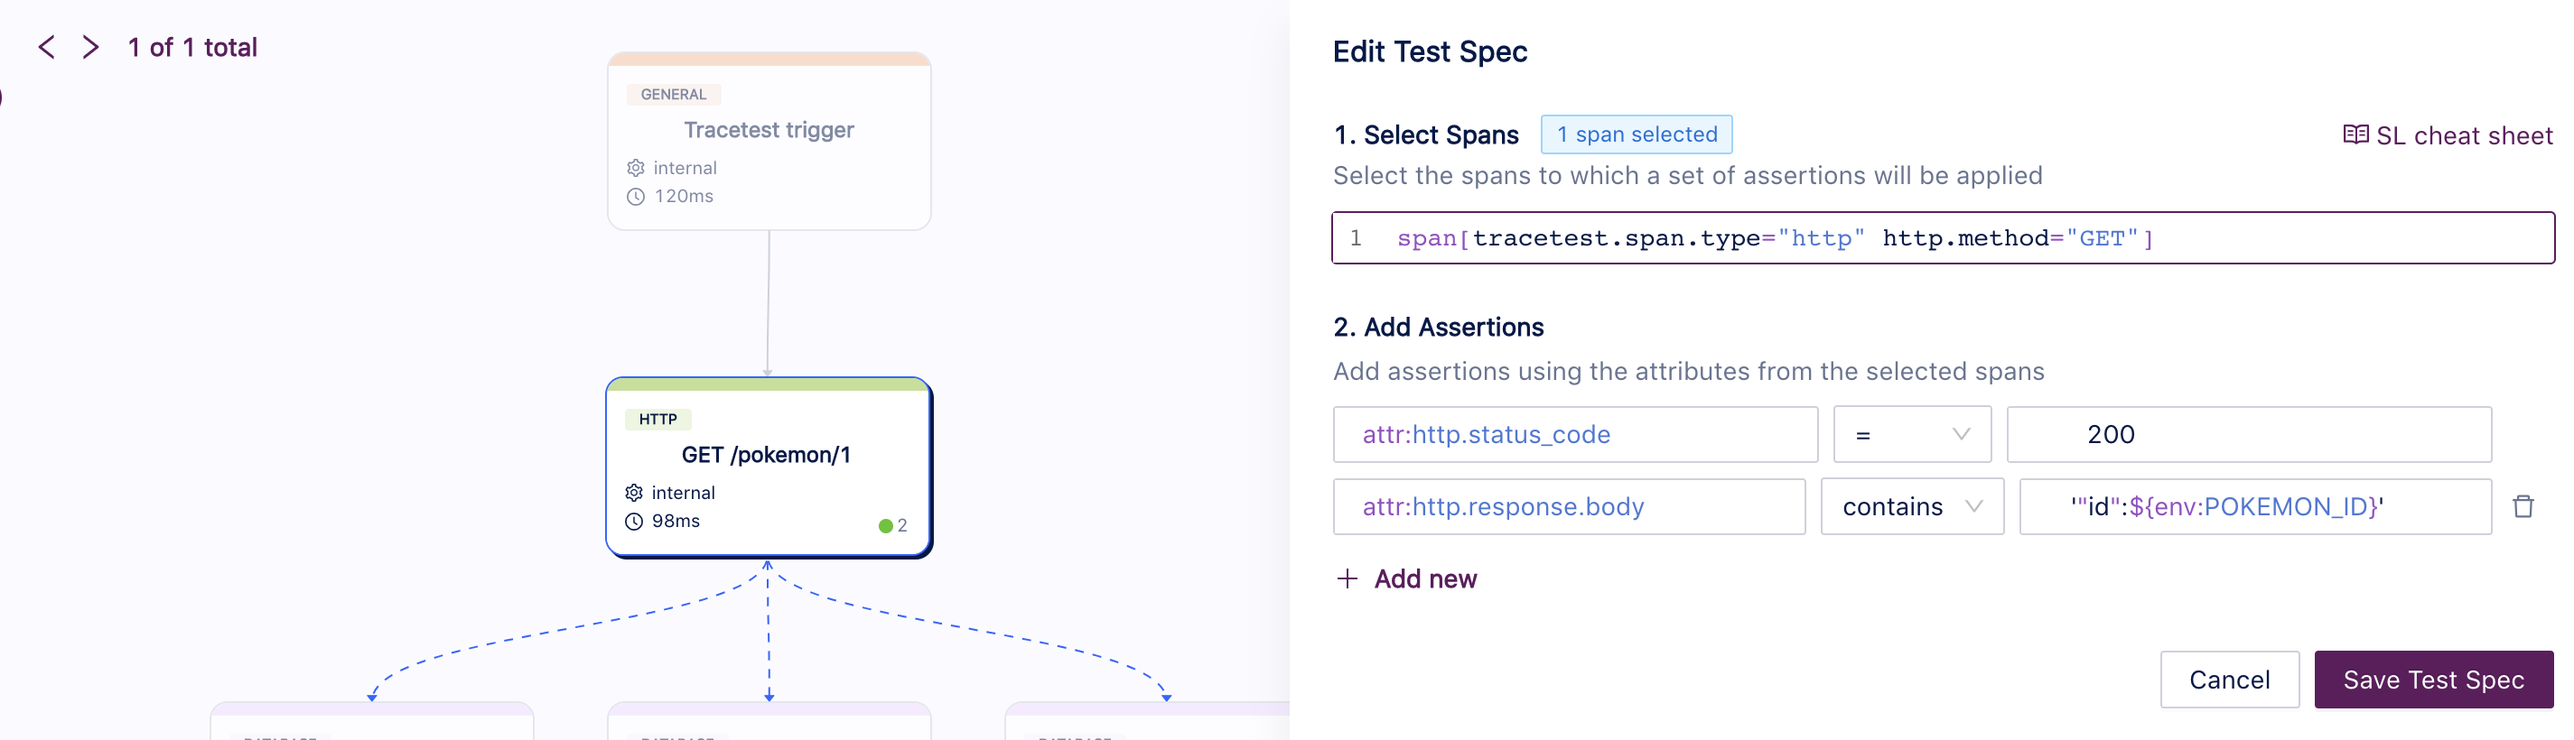
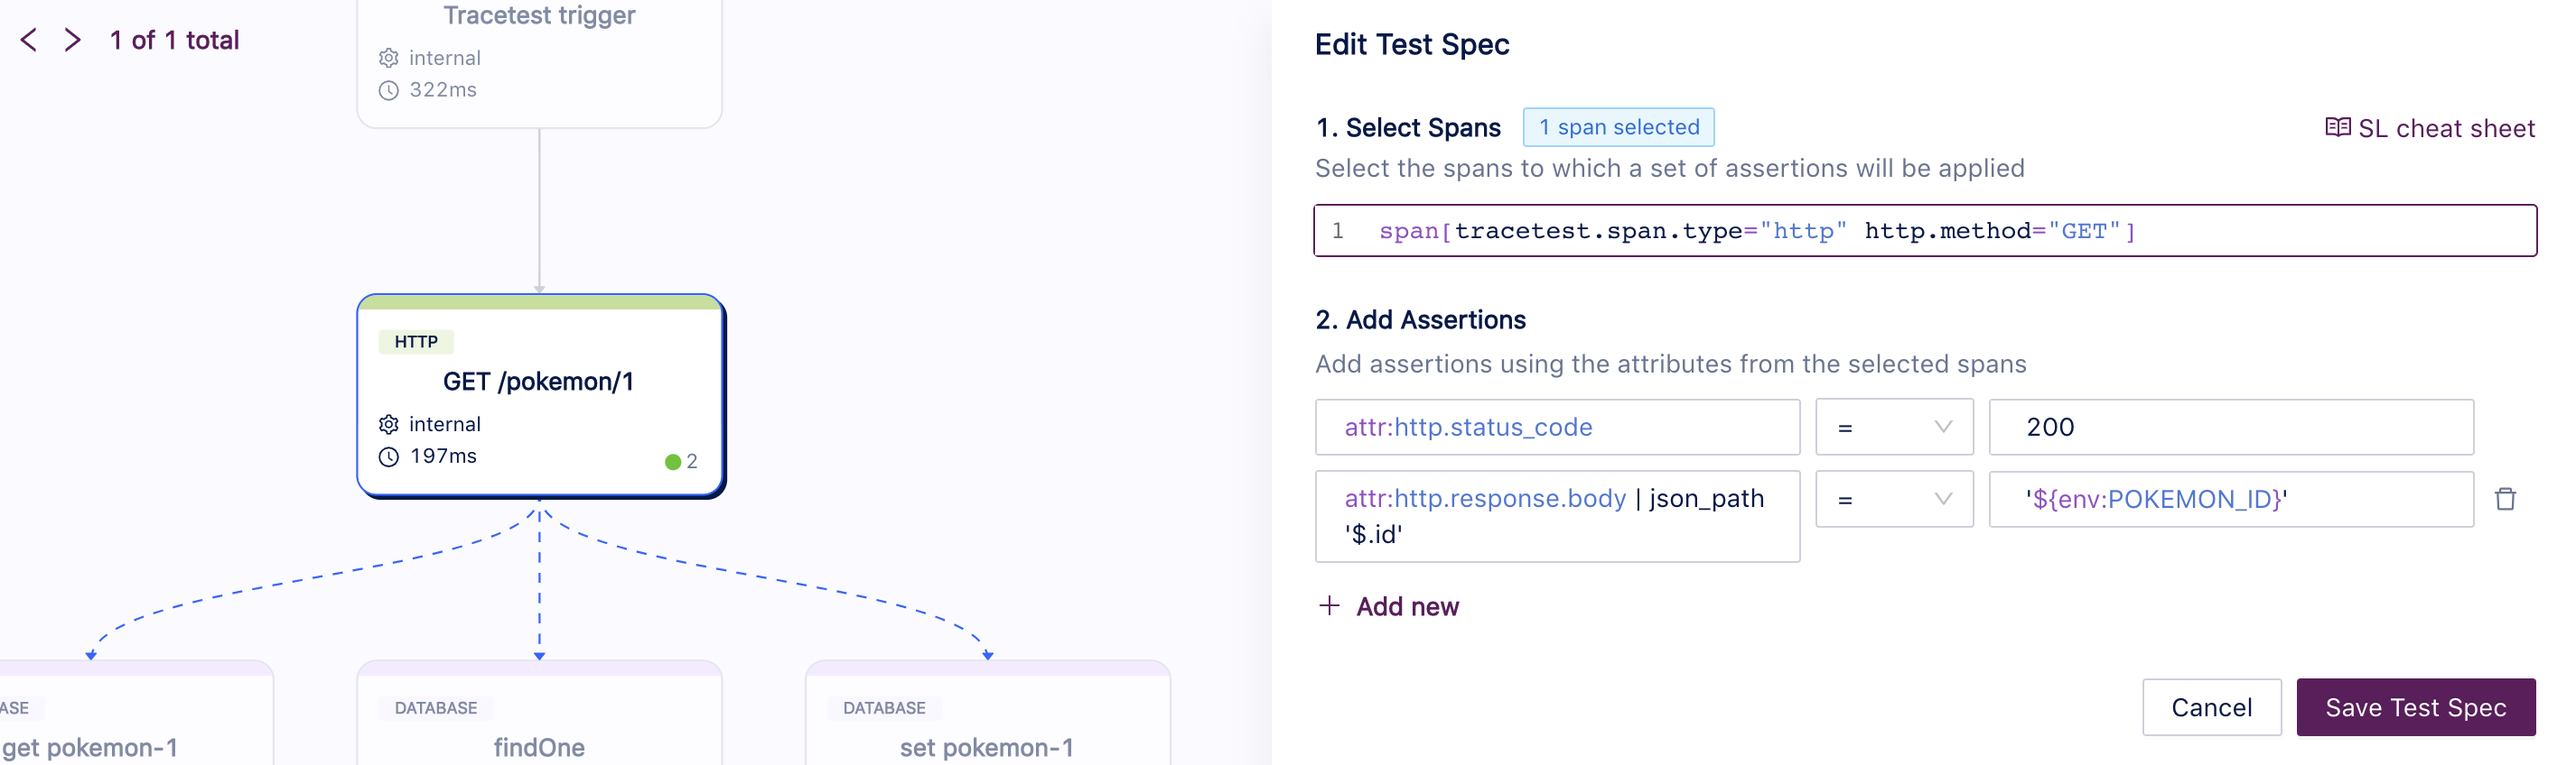
Updating scenarios

diff --git a/docs/docs/live-examples/pokeshop/use-cases/get-pokemon-by-id.md b/docs/docs/live-examples/pokeshop/use-cases/get-pokemon-by-id.md
@@ -40,7 +40,7 @@ You can trigger this use case by calling the endpoint `GET /pokemon/25` without 
 
 ## Building a test for those scenarios
 
-Using Tracetest, we can [create a test](../../../web-ui/creating-tests.md) that will execute an API call on `GET /pokemon/25` and validate two scenarios:
+Using Tracetest, we can [create two tests](../../../web-ui/creating-tests.md) that will execute an API call on `GET /pokemon/25` and validate the following scenarios:
 1. **an API call with a cache hit**
    - The API should return a valid result with HTTP 200 OK
    - The cache should be queried
@@ -61,7 +61,6 @@ Running these tests for the first time will create an Observability trace with t
 2. **cache hit**, where we can see spans from the API and cache:
 ![](../images/get-pokemon-by-id-trace-cachehit.png)
 
-
 ### Assertions
 
 With this trace, now we can build [assertions](../../../concepts/assertions.md) on Tracetest and validate API, cache, and database responses:
@@ -73,7 +72,7 @@ With this trace, now we can build [assertions](../../../concepts/assertions.md) 
 ![](../images/get-pokemon-by-id-redis-query-test-spec.png)
 
 - [cache hit] The database should not be queried
-TODO
+![](../images/get-pokemon-by-id-db-no-query-test-spec.png)
 
 - [cache miss] The cache should be populated
 ![](../images/get-pokemon-by-id-redis-set-test-spec.png)
@@ -85,17 +84,18 @@ And that's all, now you can validate this entire use case.
 
 ### Test Definition
 
-If you want to replicate this entire test on Tracetest see by yourself, you can replicate these steps on our Web UI or using our CLI, saving the following test definition as the file `test-definition.yml` and later running:
+If you want to replicate those tests on Tracetest see by yourself, you can replicate these steps on our Web UI or using our CLI, saving one of the test definitions as the file `test-definition.yml` and running:
 
 ```sh
 tracetest test -d test-definition.yml --wait-for-results
 ```
 
+#### Cache miss scenario
+
 ```yaml
 type: Test
 spec:
-  name: Pokeshop - Get Pokemon by ID [cache miss]
-  description: Get a Pokemon by ID
+  name: Pokeshop - Get Pokemon by ID [cache miss scenario]
   trigger:
     type: http
     httpRequest:
@@ -107,16 +107,47 @@ spec:
   specs:
   - selector: span[tracetest.span.type="http" http.method="GET"]
     assertions:
-    - attr:http.status_code         =         200
-    - attr:http.response.body   contains     '"id":${env:POKEMON_ID}'
+    - attr:http.status_code  =  200
+    - attr:http.response.body | json_path '$.id'  =  '${env:POKEMON_ID}'
   - selector: span[tracetest.span.type="database" db.system="redis" db.operation="get"]
     assertions:
-    - attr:name   =   "get pokemon-${env:POKEMON_ID}"
+    - attr:name  =  "get pokemon-${env:POKEMON_ID}"
   - selector: span[tracetest.span.type="database" db.system="redis" db.operation="set"]
     assertions:
-    - attr:name  =  "set pokemon-${env:POKEMON_ID}"
-  - selector: span[tracetest.span.type="database" name="findOne pokeshop.pokemon"
-      db.system="postgres" db.name="pokeshop" db.operation="findOne" db.sql.table="pokemon"]
+    - attr:name = "set pokemon-${env:POKEMON_ID}"
+  - selector: |-
+      span[tracetest.span.type="database" name="findOne pokeshop.pokemon"
+            db.system="postgres" db.name="pokeshop" db.operation="findOne" db.sql.table="pokemon"]
     assertions:
-    - attr:name  =  "findOne pokeshop.pokemon"
+    - attr:tracetest.selected_spans.count > 0
+```
+
+#### Cache miss scenario
+
+```yml
+type: Test
+spec:
+  name: Pokeshop - Get Pokemon by ID [cache hit scenario]
+  trigger:
+    type: http
+    httpRequest:
+      url: http://demo-pokemon-api.demo/pokemon/${env:POKEMON_ID}
+      method: GET
+      headers:
+      - key: Content-Type
+        value: application/json
+  specs:
+  - selector: span[tracetest.span.type="http" http.method="GET"]
+    assertions:
+    - attr:http.status_code  =  200
+    - attr:http.response.body | json_path '$.id'  =  "${env:POKEMON_ID}"
+  - selector: span[tracetest.span.type="database" db.system="redis" db.operation="get"]
+    assertions:
+    - attr:name = "get pokemon-${env:POKEMON_ID}"
+    - attr:db.result | json_path '$.id' = "${env:POKEMON_ID}"
+  - selector: |-
+      span[tracetest.span.type="database" name="findOne pokeshop.pokemon"
+            db.system="postgres" db.name="pokeshop" db.operation="findOne" db.sql.table="pokemon"]
+    assertions:
+    - attr:tracetest.selected_spans.count  =  0
 ```
